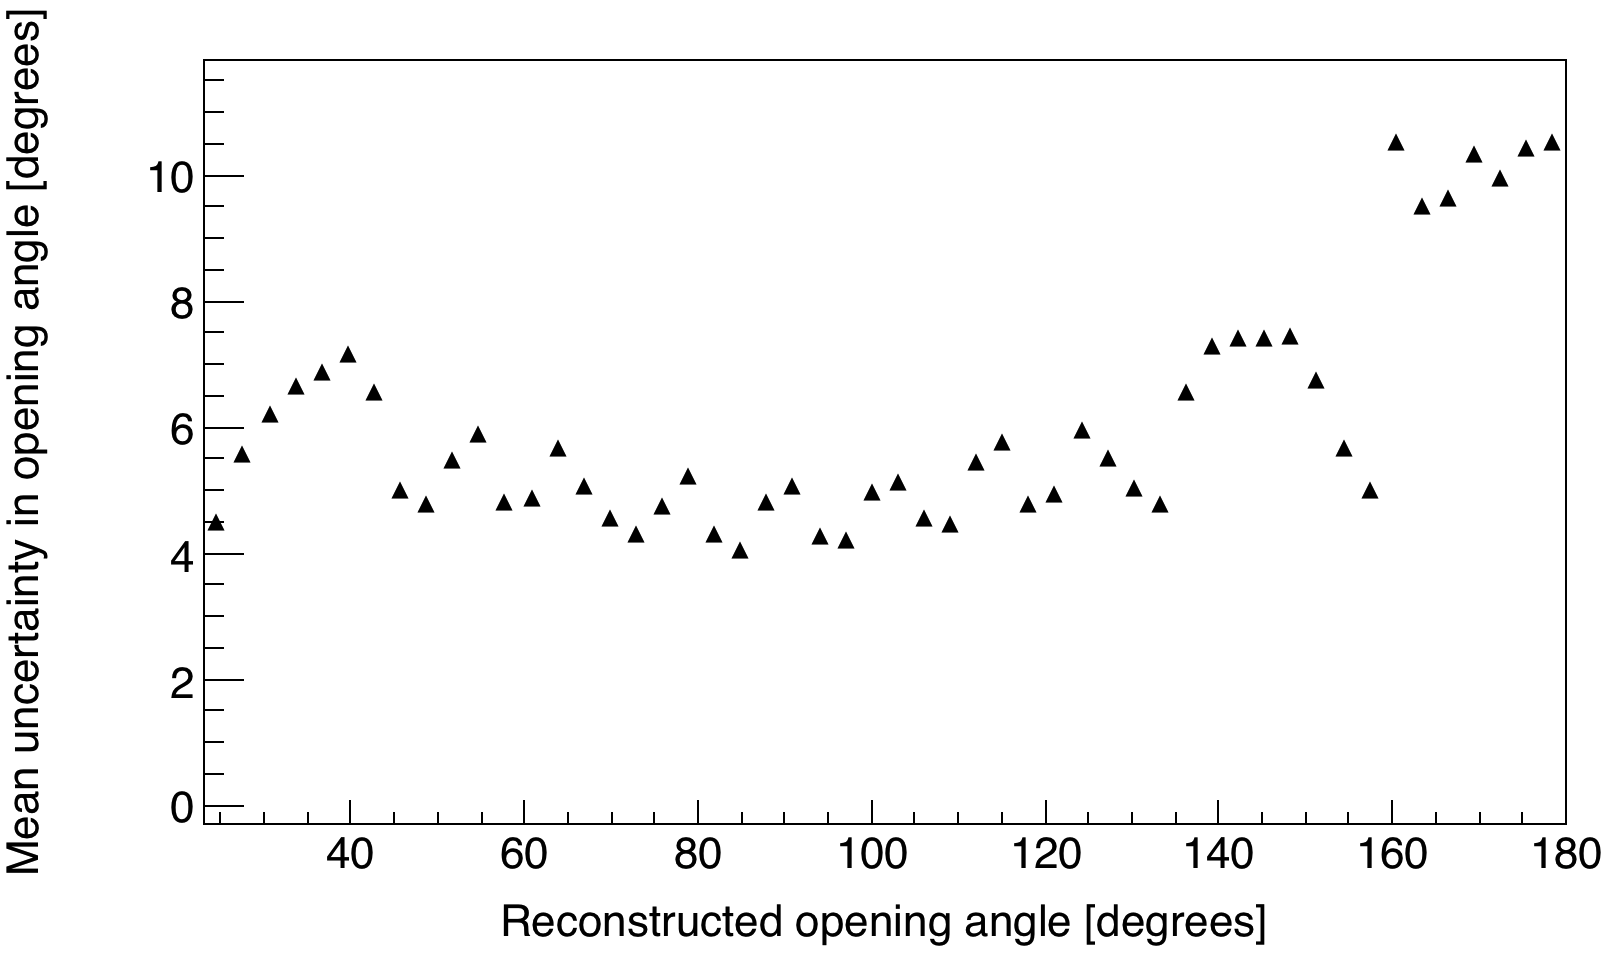
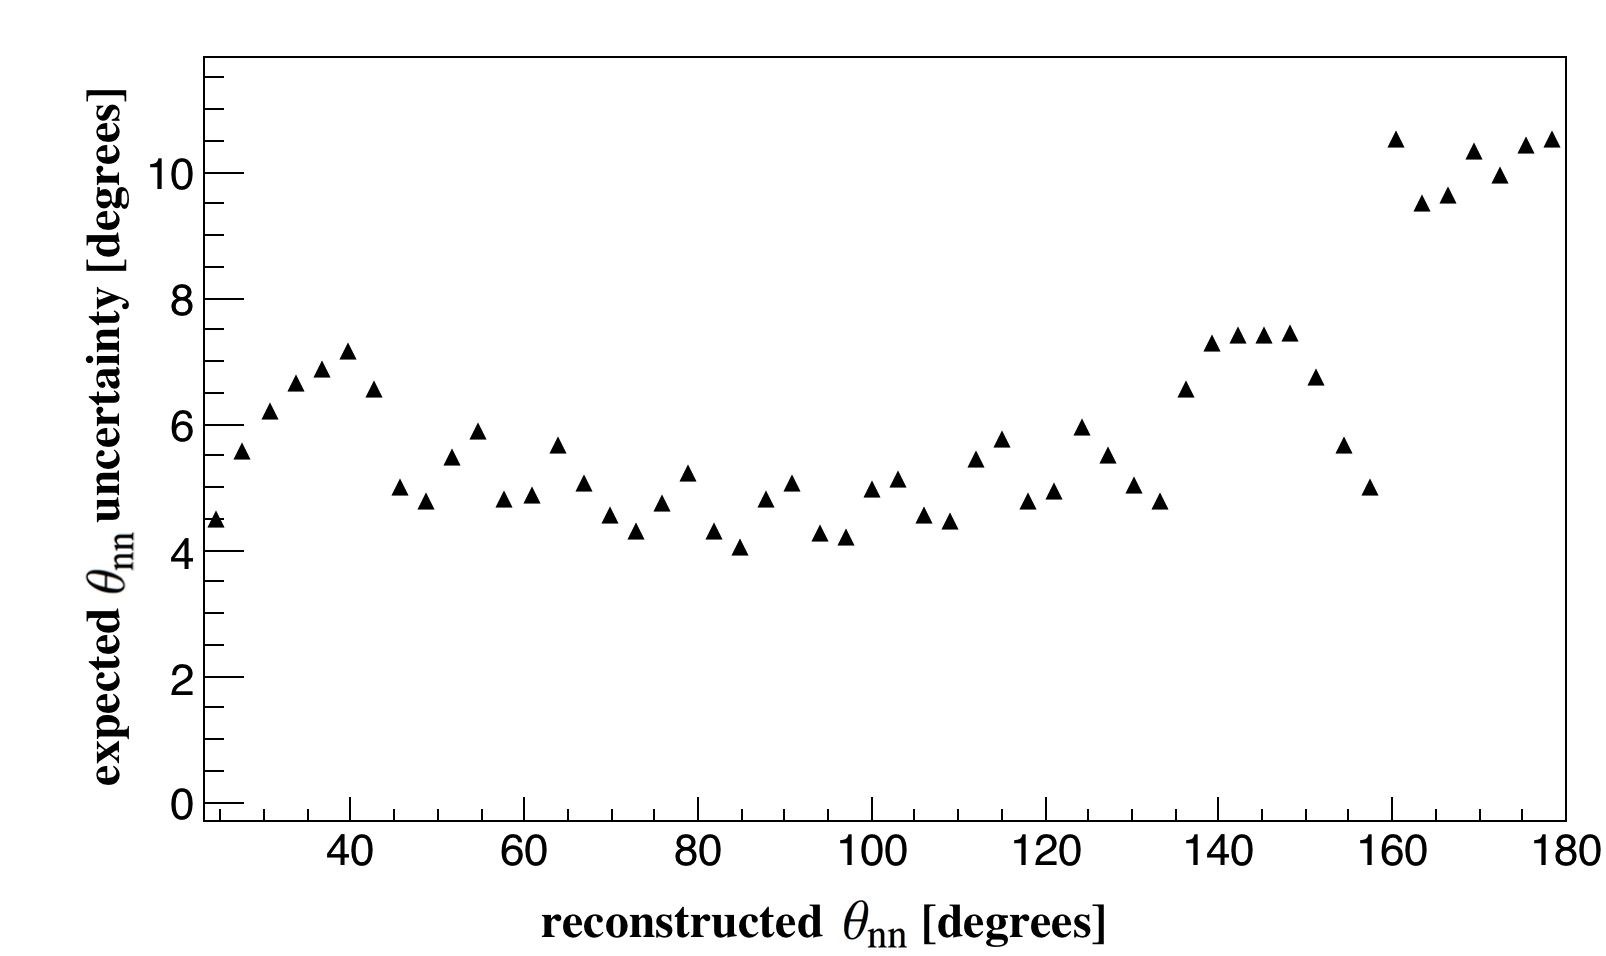
m

diff --git a/Content/Errors/Errors.tex b/Content/Errors/Errors.tex
@@ -17,8 +17,8 @@ The propagation of error through this formula is achieved by evaluating the foll
  & & \left. + \left(\Delta x_2 \frac{\partial \theta}{\partial x_2}\right)^{2} + \left(\Delta y_2\frac{\partial \theta}{\partial y_2}\right)^{2} + \left(\Delta z_2 \frac{\partial \theta}{\partial z_2}\right)^{2} \right) ^{\frac{1}{2}} \, ,  \nonumber
 \end{eqnarray}
 where the $\Delta$'s represent the uncertainty in the variable that directly follows each $\Delta$.
-The values and uncertainties of all events in a given angle bin are fed through Eq.\ref{eq:propagation}, and then averaged together.
-The result, seen in Fig.~\ref{fig:OpeningAngleRes}, can be interpreted as the opening angle resolution as a function of $\theta_{nn}$.
+The values and uncertainties of all events in a given opening angle bin are fed through Eq. \ref{eq:propagation}, and then the results are averaged.
+The result is shown in Fig.~\ref{fig:OpeningAngleRes} and can be interpreted as the opening angle resolution as a function of $\theta_{nn}$.
 \begin{figure}[h]
     \centering
     \includegraphics[width = 0.85\textwidth]{Content/Errors/OpeningAngleUncertainty.png}
@@ -123,6 +123,7 @@ The target's dimensions are small enough that the rate of photon absorption, and
 MCNP was used to simulate the production of pairs of fission neutrons uniformly throughout the target volume with energies typical of fission neutrons.
 The probability that at least one neutron out of a pair of two scatters before exiting the target was calculated from the simulation.
 For the target used in this work, the simulation indicated that 6\% of two-neutron opening angles were altered due to scattering.
+
 \begin{figure}
     \centering
     \includegraphics[width = 0.95\textwidth]{Content/Errors/ElasticScatteringPlot.png}
@@ -134,3 +135,28 @@ For the target used in this work, the simulation indicated that 6\% of two-neutr
     }
     \label{fig:ElasticScatteringPlot}
 \end{figure}
+
+Section~\ref{sec:anomaly} discusses the observation of an unexpected drop in correlation around 180$^{\circ}$ in our measurements of the photofission of $^{238}$U, as seen in Figs.~\ref{fig:DU(0)} through~\ref{fig:DU(1)}.
+This motivated a simulation which examined whether this decrease in the correlation around 180$^{\circ}$ opening angles reflects the underlying physics of the fission process, or, arises from an artifact of the data analysis procedure.
+In particular, note that throughout these measurements, the target was continuously rotated once per 8 seconds.
+This means that for the determination of the uncorrelated opening angle distribution, the trajectories of the two neutrons were taken from two different pulses in which the target was at a different orientation for each of them.
+Additionally, each of the neutrons likely originated from different regions of the target volume.
+On the other hand, for the same-pulse, correlated neutron measurement, the target was in the same orientation and the two neutrons were generated at the same position in the target.
+As such, we investigated whether these differences could cause this apparent decrease in the opening angle distribution.
+
+Using the correlated $^{252}$Cf SF source built-in to MCNP-PoLiMi, the opening angle distribution of neutrons at the moment of emission can be compared to that of emitted neutrons after they have escaped the target.
+Analysis of the simulation employs the same technique outlined in section~\ref{subsec:SPDPCancelation}, in which a correlated neutron distribution is divided by an uncorrelated neutron distribution.
+In the case of the simulation, the correlated opening angle distribution is formed by pairing neutrons emitted during the same fission, and the uncorrected distribution by the pairing of neutrons emitted during different fissions.
+The location of fission events were sampled uniformly throughout the targets volume.
+In order to account for the effect of the rotating target on the trajectories of neutrons from different-pulses, the coordinate system used for different fission events is rotated about the vertical axis accordingly.
+The conclusion is that a $^{238}$U target of this shape and size does not result in a very significant departure from the true opening angle distribution.
+Fig~\ref{fig:ElasticScatteringEffect} compares the two-neutron opening angle distribution at the moment of emission to that of neutrons after they have escaped the target.
+
+\begin{figure}
+    \centering
+    \includegraphics[width = 0.95\textwidth]{Content/Errors/EffectOfElasticScattering.png}
+    \caption{    }
+    \label{fig:ElasticScatteringEffect}
+\end{figure}
+
+

diff --git a/Content/Methods/ExpMethods.tex b/Content/Methods/ExpMethods.tex
@@ -118,15 +118,10 @@ For more information about cross-talk, see section~\ref{crosstalk}.
 \caption{Measured ToF spectrum from the SF of $^{252}$Cf.}
 \label{fig:Cf252ToF}
 \end{figure}
-A $^{252}$Cf SF source was placed at the center of the detection system shown in Fig~\ref{fig:Facility} in order to measure two-neutron opening angle distribution.
+A $^{252}$Cf SF source was placed at the center of the detection system shown in Fig~\ref{fig:Facility} in order to measure the two-neutron opening angle distribution.
 Several such past measurements have been performed on the SF of $^{252}$Cf, and so they serve as a means to validate the methods used in this study.
 
-As opposed to the measurements of neutrons from photofission, there is no concern over the detection of accidental neutron coincidences.
-Given the strength of the $^{252}$Cf source, it is highly unlikely that two fissions occur during the acceptance time window of 150~ns.
-Another difference between the two measurements is the clean and sharp peak produced by fission photons from $^{252}$Cf compared to a relatively smeared peak produced by photons scattering from the target during measurements of photo-neutrons.
-In each measurement, the photon peak is used as a reference point for the calculation of neutron ToF.
-As a result the $^{252}$Cf measurements have less error in ToF caused by the spreading of the photon peak (see Fig.~\ref{fig:Cf252ToF}).
-The same normalization technique is used for both SF and photon-neutron measurements, in which the correlated distribution is divided by the uncorrelated distribution of neutron pairs taken from different fissions.
-
-Instead of using the beam for a trigger, the trigger for $^{252}$Cf consisted of two high timing-resolution scintillation detectors made from ATP plastic, in which one is fixed below and the other above the source at a distance of 15 cm.
-Using a coincidence window of 4 ns, which is intended to select for coincident photons from fission, the trigger required 2-fold coincidence between both of the scintillation detectors.
+As opposed to the measurements of neutrons from photofission, there is no concern over the detection of accidental neutron coincidences, because given the strength of the $^{252}$Cf source used ($\sim 3,500$ fissions/s), it is highly unlikely that two fissions occur during the set electronic acceptance time window of 150~ns.
+The 150~ns timing window is triggered by the occurrence of a 2-fold coincidence within a 4~ns window between two separate 10$\times$10$\times$5 cm$^3$ plastic scintillators, one placed above and the other below the source at a distance of 30~cm.
+A cleaner ToF spectrum is produced by $^{252}$Cf in comparison to the photofission measurement due to the lack of a photon beam (see Fig.~\ref{fig:Cf252ToF}).
+The same analysis techniques described in section~\ref{Analysis} were used for both SF of $^{252}$Cf and photofission measurements.

diff --git a/Content/Methods/Analysis.tex b/Content/Methods/Analysis.tex
@@ -28,7 +28,11 @@ Figure~\ref{fig:SPDPNormalization}(a) shows the measured $nn_{\text{corr}}(\thet
 The structure seen here is reflective of the underlying two-neutron angular correlations as well as the geometric acceptance and efficiencies of the neutron detectors.
 Figure~\ref{fig:SPDPNormalization}(b) reveals how a clear picture of two-neutron correlations emerges when taking the ratio between $nn_{\text{corr}}(\theta)$ and $nn_{\text{uncorr}}(\theta)$.
 
-The photo-disintegration of D$_{2}$O, which produces uncorrelated neutrons, gives a flat distribution in cos$(\theta_{nn})$, as expected (see Fig.~\ref{fig:D2Otheta_nn}).
+A cylindrical bottle with a height of 4.5~cm and a radius of 1~cm was filled with heavy water 
+(D$_{2}$O) and subject to the bremsstrahlung photon beam, producing neutron coincidences at a rate of 1.4$\times10^{-4}$ per pulse.
+The photo-disintegration of the deuteron, which produces only uncorrelated neutrons, is the only  neutron producing reaction involved because the bremsstrahlung endpoint was below the $(\gamma, 1n)$ threshold of $^{16}$O.
+The ratio between $nn_{\text{corr}}(\theta)$ and $nn_{\text{uncorr}}(\theta)$ is expected to be flat in this case, as confirmed by the result (see Fig.~\ref{fig:D2Otheta_nn}).
+
 \begin{figure}[]
 \centering
     \includegraphics[width=0.7\textwidth]{Content/Methods/SPDPNormalization.png}
@@ -38,9 +42,8 @@ The photo-disintegration of D$_{2}$O, which produces uncorrelated neutrons, give
 \end{figure}
 \begin{figure}[h]
 \includegraphics[width=0.9\textwidth]{Content/Methods/D2Otheta_nn.png}
-\caption{The opening angle distribution of neutrons from the photo-disintegration of D$_{2}$O  is uniform in cos$(\theta)$, or in otherwise isotropic, as expected.
-nn$_{SP}$ and nn$_{DP}$ are the relative yields of neutron formed from the neutron events from the same pulse and from different pulses, respectively.
-Here, nn$_{SP}$ arises solely from accidentals.}
+\caption{The opening angle distribution of neutrons from the photo-disintegration of D$_{2}$O is uniform.
+This is expected because the photo-disintegration of D$_{2}$O emits only a single neutron, and thus this distribution arises solely from neutron accidentals.}
 \label{fig:D2Otheta_nn}
 \end{figure}
 

diff --git a/Content/Results/Results.tex b/Content/Results/Results.tex
@@ -11,7 +11,7 @@ FREYA was told to use the fission fragment mass distribution, $Y(A)$, and the av
 In ref~\cite{Talou2018}, the authors warn that using FREYA in this way to model photofission is only an approximation and could lead to incorrect results.
 Nonetheless, FREYA is used here as such because it is the only photofission model available to the authors of the present work.
 
-\subsection{$\theta_{\text{nn}}$ with Energy Cuts}
+\subsection{$\theta_{\text{nn}}$ correlation \emph{versus} neutron energy}
 The measured $\theta_{nn}$ distribution from the photofission of $^{238}$U and the SF of $^{252}$Cf are presented with the following three different types of cuts applied to the energies of neutrons in coincidence:
 \begin{enumerate}[label=(\roman*), itemjoin={{, }}, itemjoin*={{, or }}]
     \item In Figs.~\ref{fig:DU(0)} ($^{238}$U) and~\ref{fig:Cf(0)} ($^{252}$Cf), a minimum energy threshold is applied to both neutrons
@@ -76,6 +76,7 @@ For $^{238}$U, there were a total of 2952 two-neutron coincident events after th
 \FloatBarrier
 
 \subsection{Considering $\theta_{abs}$}
+\label{sec:anomaly}
 While these results are consistent with the effect of the kinematic focusing of the neutrons due to the recoil of the fission fragments, the data show a marked decrease in the two-neutron opening angle correlation in the region from about 165$^{\circ}$ to 180$^{\circ}$, which can be seen in Figs.~\ref{fig:SPDPNormalization} and ~\ref{fig:theta_abs_two_neutron}, as well as in Figs ~\ref{fig:DU(0)} through \ref{fig:DU(1)}.
 This feature is not evident in previous work on spontaneous and neutron induced fission.
 As previously discussed in section~\ref{sec:level1}, photofission differs from spontaneous and neutron induced fission in that the fission fragments for the photon-induced reaction exhibit an asymmetry in their angle of emission, with the most likely orientation of the fission axis lying perpendicular to the direction of the incident photon.

diff --git a/plots/Official/Acceptance.py b/plots/Official/Acceptance.py
@@ -1,0 +1,66 @@
+import numpy as np
+from TH1Wrapper import TH1F,TH2F
+import mytools2 as mt2
+import os
+from itertools import product
+
+import ROOT
+import mytools as mt
+import mytools2 as mt2
+
+bin_width = 2
+
+tree_SP, n_pulses_SP = mt2.NCorrRun('SP','DU', Forward=True).neutrons_doubles_tree
+
+hist = TH1F(24,180,binwidths=bin_width)
+
+hist.Project(tree_SP, "180/3.1415*neutrons.coinc_hits.coinc_theta",weight=1.0/n_pulses_SP)
+
+
+hist.Draw("hist E")
+hist.SetLineWidth(2)
+hist.GetXaxis().SetTitle("#theta_{nn}  [degrees]")
+hist.GetYaxis().SetTitle("counts per pulse")
+mt2.thesis_plot(hist, big_font=0.055, Ytitle__offset=1)
+
+hist.SetStats(0)
+
+
+if __name__ == "__main__":
+    import ROOT as ROOT
+    from multiprocessing import Process, Queue
+    import time, sys, os
+
+
+    def input_thread(q, stdin):
+        while True:
+            print ('ROOT: ')
+            cmd = stdin.readline()
+            q.put(cmd)
+
+
+    def root(char):
+        assert isinstance(char, str), "Argument must be string!"
+        ROOT.gROOT.ProcessLine(char)
+
+
+    if __name__ == '__main__':
+        ___queue___ = Queue()
+        ___newstdin___ = os.fdopen(os.dup(sys.stdin.fileno()))
+        ___input_p___ = Process(target=input_thread,
+                                args=(___queue___, ___newstdin___))
+        ___input_p___.daemon = True
+        ___input_p___.start()
+        ___g___ = ROOT.gSystem.ProcessEvents
+        try:
+            while 1:
+                if not ___queue___.empty():
+                    ___cmd___ = ___queue___.get()
+                    try:
+                        exec (___cmd___, globals())
+                    except:
+                        print (sys.exc_info())
+                time.sleep(0.01)
+                ___g___()
+        except(KeyboardInterrupt, SystemExit):
+            ___input_p___.terminate()

diff --git a/Content/Methods/Apperatus.tex b/Content/Methods/Apperatus.tex
@@ -38,7 +38,7 @@ The remaining four scintillators, with dimensions of 25.4$\times$15.2$\times$3.8
 These scintillators were segmented in order to address very high photon detection rates resulting from the forward scattering of photons from the target.
 Prior to segmentation, a photon was registered in these detectors nearly every pulse, and because the electronics were operated in single hit mode, the detection of a photon leaves the detector unable to detect subsequent neutrons, reducing the neutron detection efficiency to nearly 0\%.
 After segmentation, the photon detection rate fell to 0.5 photons per pulse, greatly improving detector live-time.
-The detectors at $\pm$30 degrees also differ from the rest in that they were instrumented with only a single PMT, and therefore have a lower energy and positional, and therefor angular, resolution than the others.
+The detectors at $\pm$30 degrees also differ from the rest in that they were instrumented with only a single PMT, and therefore have a lower precision in measurements of energy and position compared to the others.
 In order to test for systematic errors that may have resulted from the use of the segmented detectors, opening angle measurements were compared with and without their use, and the differences were well within experimental errors.
 
 The relative efficiencies of the neutron detectors as a function of neutron energy were calculated by dividing measured and theoretical yields from the SF of $^{252}$Cf according to MCNP.
